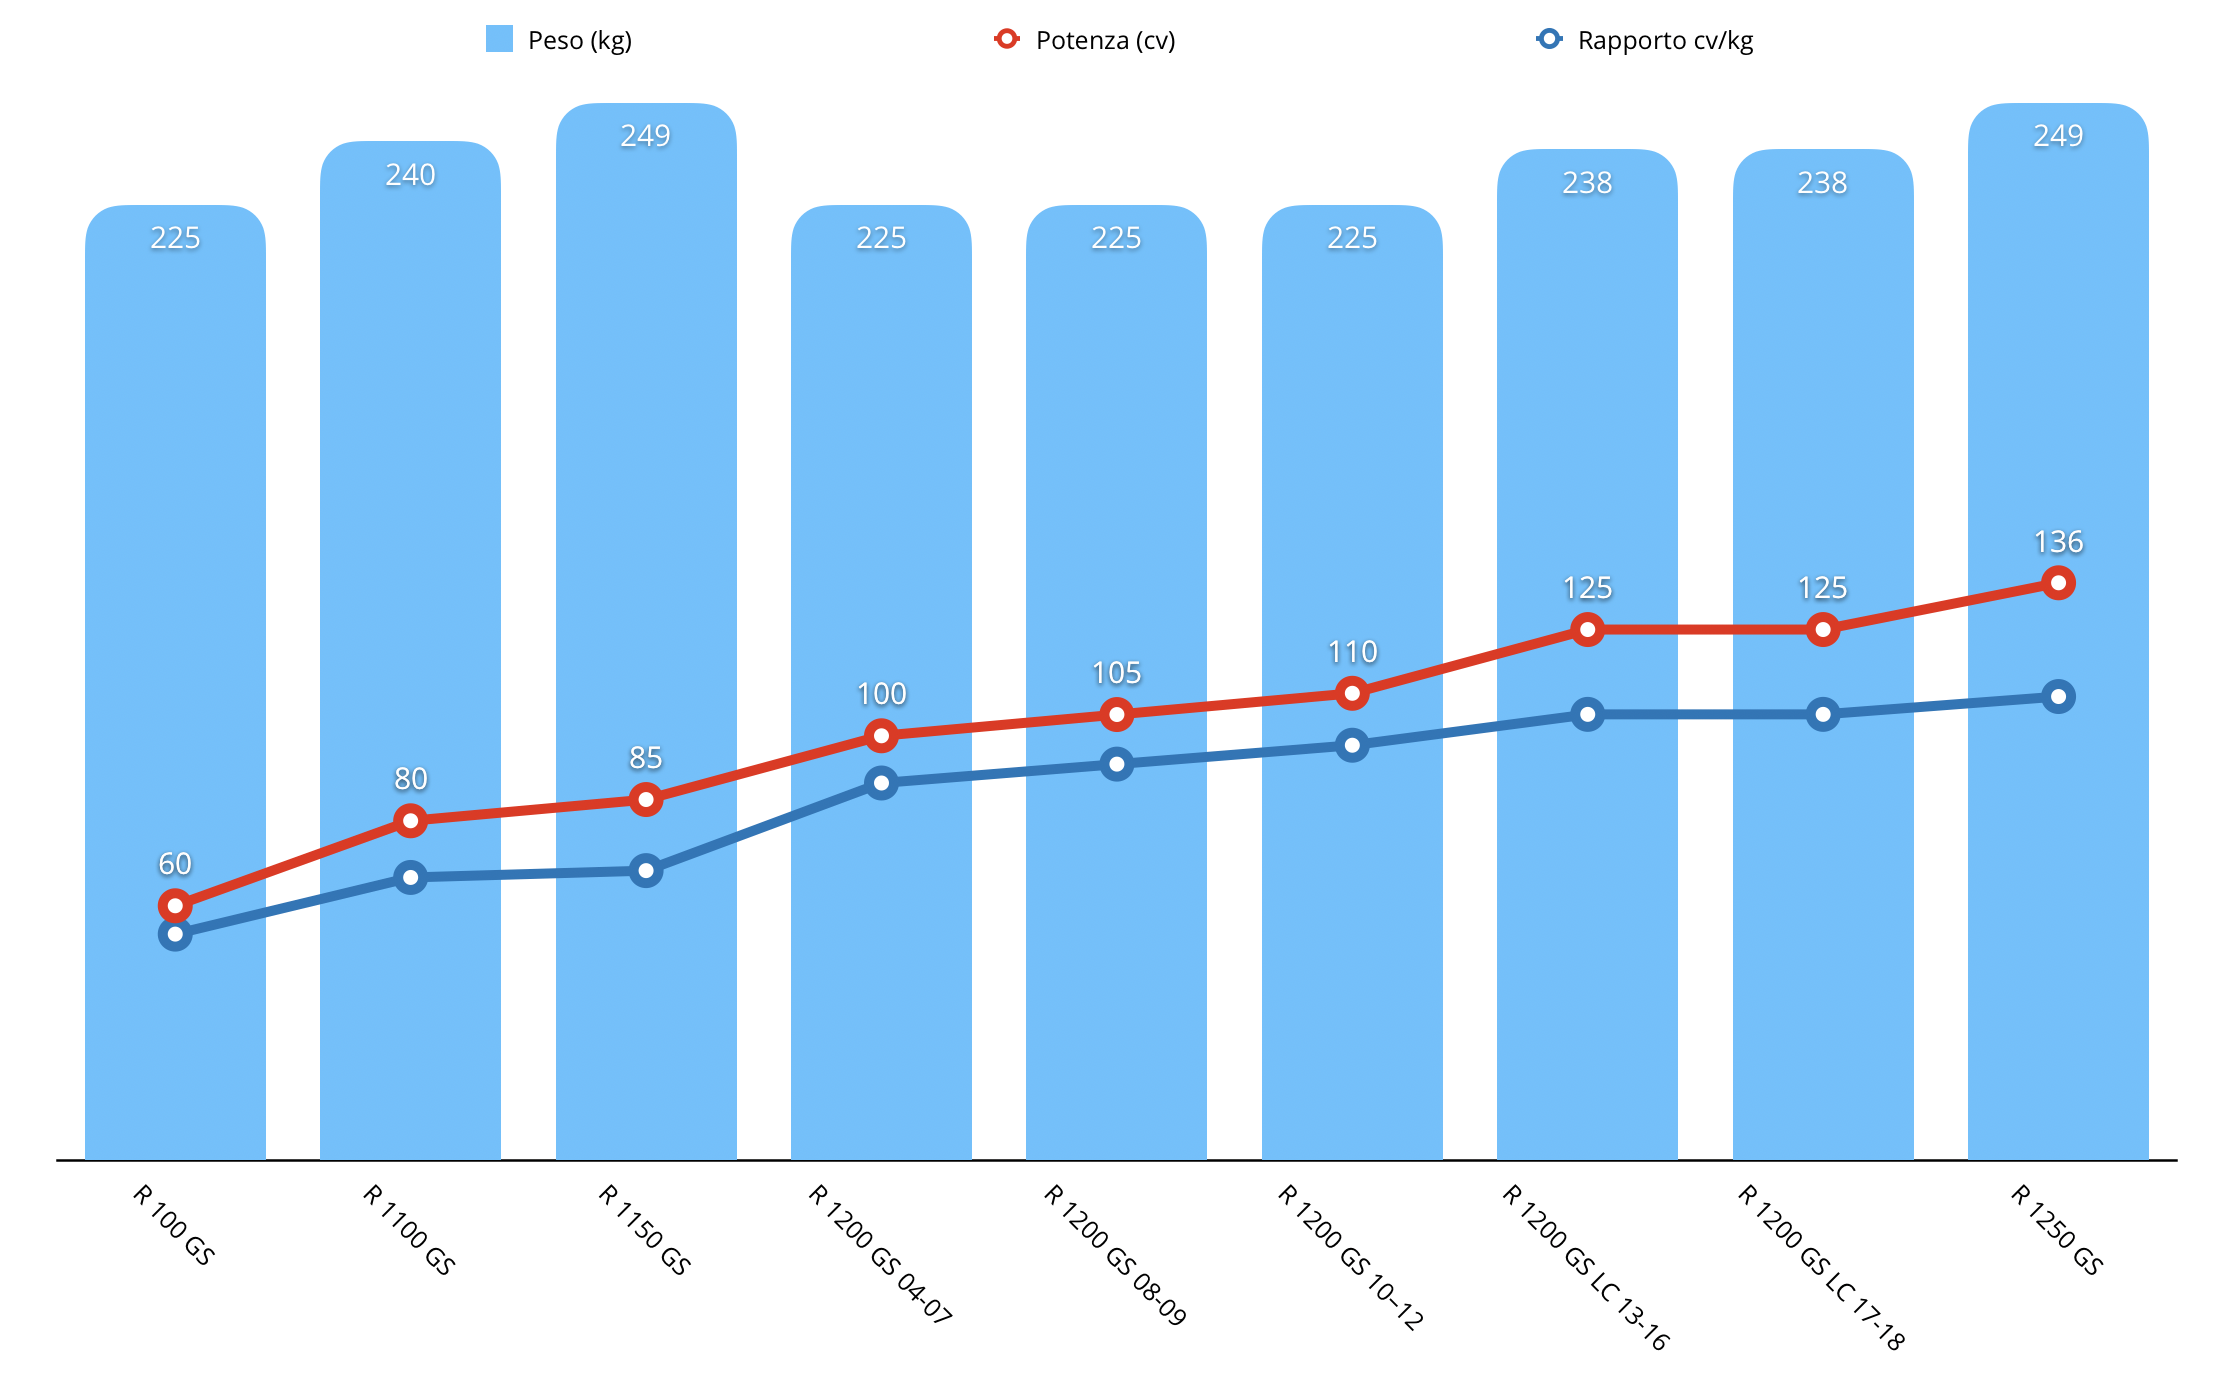
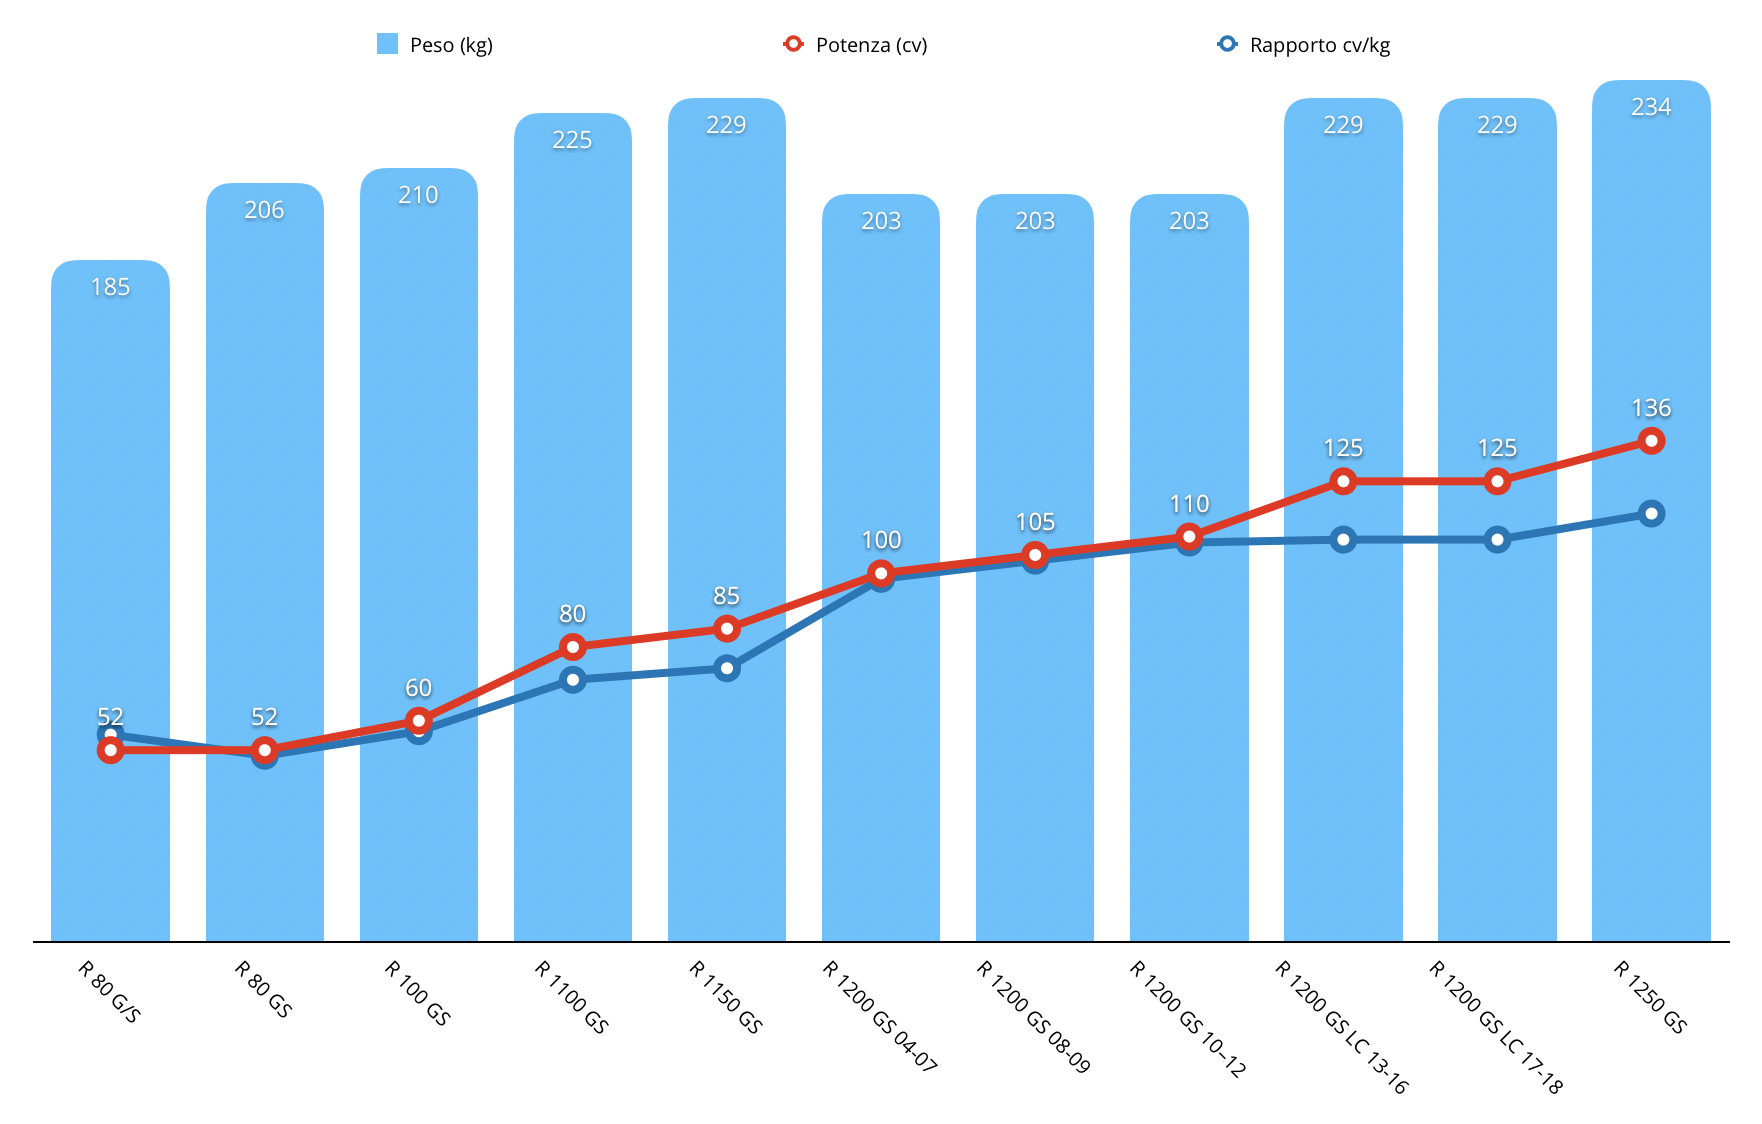
Updated GS history and power/weight chart

diff --git a/content/posts/2018-12-bmw-r1200gs-2008-recensione-fuori-tempo-massimo/index.md b/content/posts/2018-12-bmw-r1200gs-2008-recensione-fuori-tempo-massimo/index.md
@@ -6,7 +6,7 @@ featured_image: ./galleries/IMG_3556.jpg
 excerpt: "La nostra BMW R1200GS ha compiuto 10 anni: con l’uscita della R1250GS ci è sembrato doveroso raccontarvi come va"
 opening: "La nostra BMW R1200GS ha compiuto 10 anni: con l’uscita della R1250GS ci è sembrato doveroso raccontarvi come va, nonostante l’età e 85.000km sul groppone!"
 date: "2018-12-23T19:14:19.000Z"
-modified: "2019-04-03T14:59:00.000Z"
+modified: "2020-02-21T20:59:00.000Z"
 categories:
 - recensioni
 - recensioni/moto
@@ -26,16 +26,16 @@ Le prime moto marchiate BMW nascono nel 1921, il caratteristico motore boxer a c
 
 ![BMW R32 – 1932](./galleries/BMW-R-32-1932.jpg "BMW R32 – 1932")
 
-L’introduzione della sigla G/S (acronimo di *Gelände/Straße *ovvero *Sterrato/Strada*) avviene nel 1980 con la **BMW R 80 G/S** (797,5cc per 52 cv e 205kg a vuoto): una moto poliedrica nata per affrontare in scioltezza ogni tipo di percorso ed in controtendenza rispetto al merito dell’epoca, composto da moto specialistiche. Da questo modello tutte le BMW GS di grossa cilindrata avranno sospensione posteriore monobraccio *Paralever* con trasmissione a cardano e motore bicilindrico boxer.
+L’introduzione della sigla G/S (acronimo di *Gelände/Straße *ovvero *Sterrato/Strada*) avviene nel 1980 con la **BMW R 80 G/S**: 797,5cc per 52 cv e 185kg di peso a vuoto, una moto poliedrica nata per affrontare in scioltezza ogni tipo di percorso ed in controtendenza rispetto al merito dell’epoca, composto da moto specialistiche. La ruota posteriore da 18" è "appesa" alla trasmissione *Monolever*, un forcellone monobraccio che consente un rapido accesso e smontaggio della ruota posteriore.
 
 La bontà del progetto viene messa a dura prova nella partecipazione a diverse edizioni della Paris-Dakar, dove otterrà 4 vittorie nei 5 anni di partecipazione (1981-1983-1984-1985).
 
-Nel 1987 la cilindrata viene aumentata a 980cc, il nome della moto cambia in **BMW R 100 GS**, la potenza sale a 60cv ed il peso si attesta a 210 kg a vuoto.
+Nel 1987 escono due nuovi modelli: *R 80 GS* (stesso motore della G/S ma peso a secco che sale a 206kg) ed *R 100 GS* (980cc per 60cv e 210kg a secco). Da questi modelli tutte le BMW GS di grossa cilindrata avranno sospensione posteriore monobraccio *Paralever* con trasmissione a cardano e motore bicilindrico boxer.
 
 ![BMW R 80 G/S – 1980](./galleries/BMW-R80-GS-1980.jpg "BMW R 80 G/S – 1980")
 ![BMW R 100 GS – 1987](./galleries/BMW-R-100-GS.jpeg "BMW R 100 GS – 1987")
 
-Nel 1994 debutta la **BMW R 1100 GS** con motore boxer raffreddato ad aria e olio, ma soprattutto una rinnovata sospensione anteriore: si passa da una classica forcella all’inedito sistema *Telelever*, che dona alla moto una grande stabilità ed evita l’affondamento anteriore durante le frenate. La cilindrata aumenta a 1083cc, la potenza è di 80cv, il peso lordo raggiunge i 240kg.
+Nel 1994 debutta la **BMW R 1100 GS**, un progetto tutto nuovo: motore boxer portante raffreddato ad aria e olio, vengono mandati in pensione i carburatori in favore dell'iniezione elettronica, debutta una rinnovata sospensione anteriore: si passa da una classica forcella all’inedito sistema *Telelever*, che dona alla moto una grande stabilità ed evita l’affondamento anteriore durante le frenate. La cilindrata aumenta a 1083cc, la potenza è di 80cv, il peso lordo raggiunge i 240kg.
 
 Il 1999 è l’anno della **BMW R 1150 GS**, ancora molto apprezzata per via del ridotto impiego di elettronica. La *ghisona *ha un peso lordo che sfiora i 250kg, 1130cc di cilindrata per 85cv di potenza.
 
@@ -58,7 +58,9 @@ Nel 2018 viene presentata la **BMW R 1250 GS** con un nuovo motore da 1262cc a f
 
 A fronte di un costante aumento di potenza, il peso delle bicilindriche bavaresi è sempre aumentato (ad eccezione della *dieta dimagrante* del 2004): il rapporto tra potenza e peso è comunque sempre cresciuto:
 
-![Evoluzione peso e potenza BMW serie R GS](./galleries/peso-potenza-bmwGS.png "La potenza è sempre aumentata, purtroppo lo ha fatto anche il peso  ")
+![Evoluzione peso e potenza BMW serie R GS](./galleries/peso-potenza-bmwGS.png "La potenza è sempre aumentata, purtroppo lo ha fatto anche il peso")
+
+*La storia delle*.
 
 ## Perché comprare una R 1200 GS 2008 nel 2018?
 
@@ -166,3 +168,7 @@ Allargare la superficie di appoggio del cavalletto laterale è utile quando ci s
 Spesso in viaggio è necessario ricaricare smartphone, fotocamere e actioncam, la moto potrebbe essere la vostra unica fonte di alimentazione. Potreste collegarvi alla [presa CAN-bus](https://amzn.to/2T1NNuH) sotto la sella, oppure bypassare la linea della moto [collegandovi direttamente alla batteria](https://amzn.to/2AkAu1F) per poter alimentare un compressore 12V (la R 1200 GS non ha fusibili e la centralina toglie alimentazione automaticamente alle linee che assorbono troppa corrente). Se volete spendere, [Touratech vende un bella soluzione a 2 prese che si integra con il quadro strumenti](https://shop.touratech.it/protezione-2-posto-di-guida-unita-tachigrafo-con-due-prese-corrente-bmw-r1200gs-2008-2012-r1200gs-adventure-2008-2013.html).
 
 Purtroppo la BMW R 1200 GS è tra le moto più rubate d’Italia (e [lo abbiamo scoperto sulla nostra pelle](/2017/03/furto-moto-bmw-r1200gs-ritrovata/)). Nel sottosella è possibile riporre il [lucchetto a U ABUS Granit Extreme](https://amzn.to/2Cw8NUU), tra i più solidi sul mercato e in grado di bloccare la ruota posteriore passando nel buco della coppia conica; per evitare di partire con il lucchetto montato (e fare grossi danni) meglio dotarsi anche di un [cordino promemoria](https://amzn.to/2Rd7mCP).
+
+## Nota
+
+La storia dei primi modelli BMW GS è stata aggiornata il 21 febbraio 2020 dopo una bella chiacchierata con l'espertissimo Francesco di [Camelus Adventures](https://www.camelus.it).
